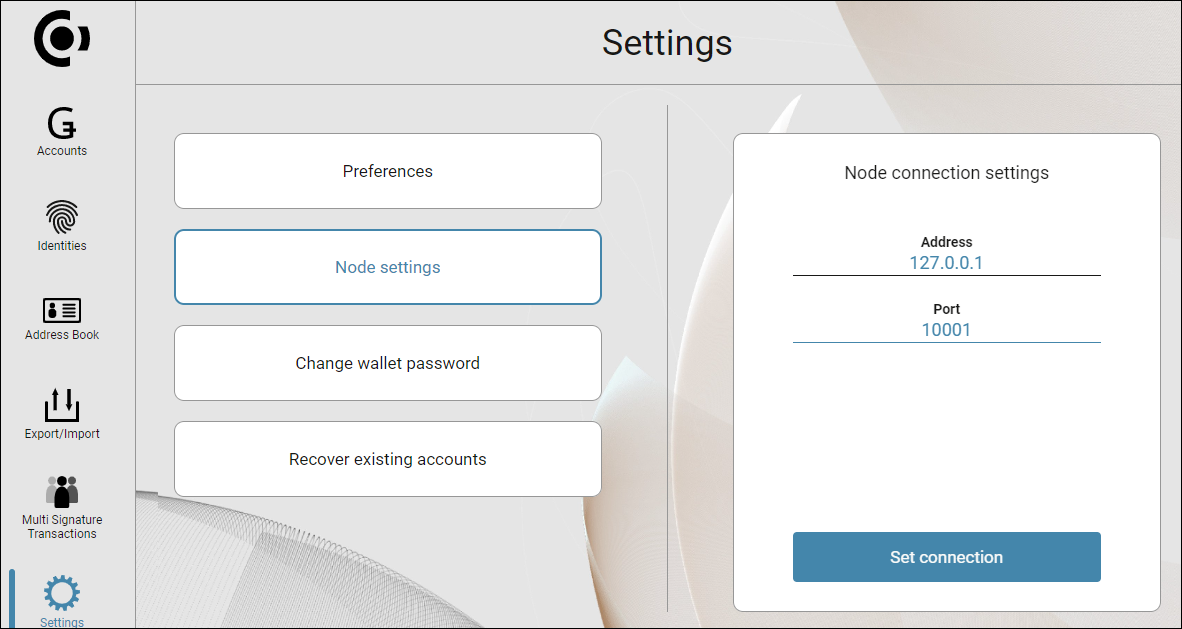
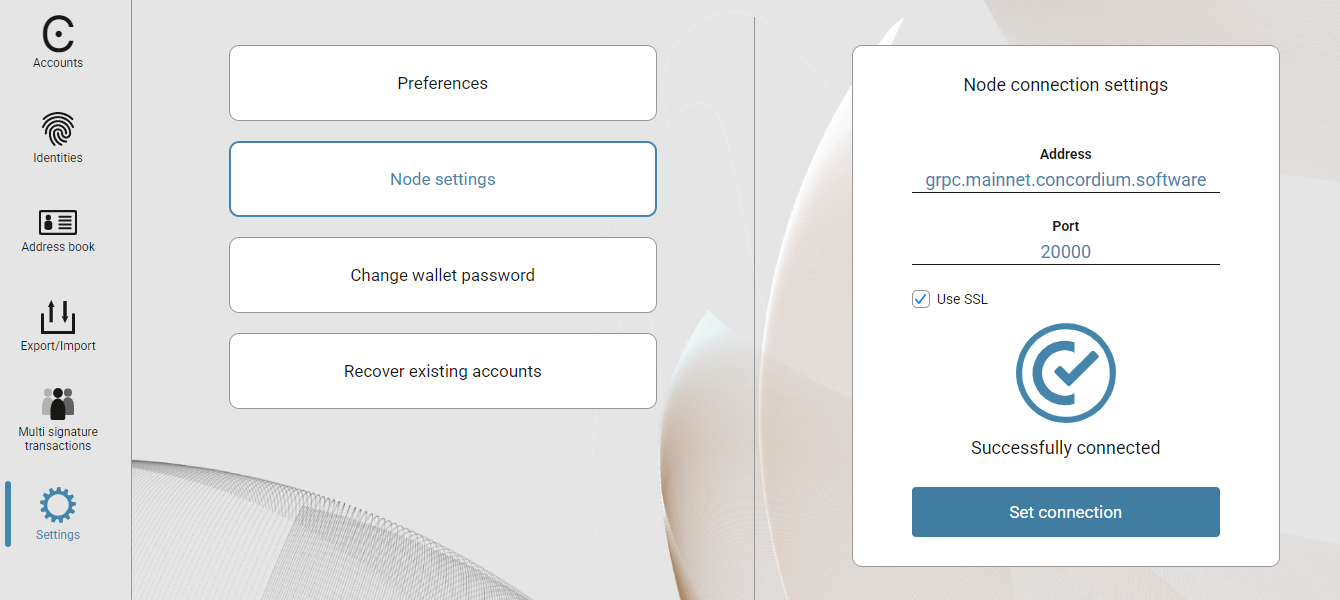
Updated validation guides, added checking node sync status and a little polishing of the desktop wallet

diff --git a/source/mainnet/docs/guides/overview-desktop.rst b/source/mainnet/docs/guides/overview-desktop.rst
@@ -22,7 +22,7 @@ Before you start, make sure you’ve completed the following steps:
 
 .. dropdown:: Step 1: Set up the node
 
-    The Desktop Wallet must be connected to a running **trusted** node on the Concordium blockchain. The node enables the Desktop Wallet to interact with the Concordium blockchain to receive updates and submit transactions. A default ``grpc.mainnet.concordium.software`` is provided. But you can run a node yourself using :ref:`Windows<run-node-windows>`, :ref:`macOS <run-node-macos>`, and :ref:`with Docker <run-a-node>` or :ref:`a Debian package <run-node-ubuntu>` on Linux. You can also have a third-party provider run a node for you.
+    The Desktop Wallet must be connected to a running **trusted** node on the Concordium blockchain. The node enables the Desktop Wallet to interact with the Concordium blockchain to receive updates and submit transactions. A default ``grpc.mainnet.concordium.software`` is provided. Optionally, you can run a node yourself using :ref:`Windows<run-node-windows>`, :ref:`macOS <run-node-macos>`, :ref:`Docker <run-a-node>` or :ref:`a Debian package <run-node-ubuntu>` on Linux. You can also have a third-party provider run a node for you.
 
 .. dropdown:: Step 2: Install the Desktop Wallet
 
@@ -30,14 +30,17 @@ Before you start, make sure you’ve completed the following steps:
 
     #. Open the Desktop Wallet and create a password that contains at least 6 characters. Keep the password safe. You’ll need it to sign into the Desktop Wallet again.
 
-    #. If this is the first time you're opening the Desktop Wallet, you're asked to connect to a node. If you don't see this message, go to **Settings**, and then select **Node settings**. By default, ``grpc.mainnet.concordium.software`` is inserted, but you can change this to any other node that you prefer or the node provided by your third-party provider. Enter the **Address** and **Port** of the node you’re running. The address is the network address of the node.
+    #. If this is the first time you're opening the Desktop Wallet, you're asked to connect to a node. If you don't see this message, go to **Settings**, and then select **Node settings**. By default, ``grpc.mainnet.concordium.software`` with port ``20000`` is inserted. Optionally, you can change this to any other node that you prefer or the node provided by your third-party provider. Enter the **Address** and **Port** of the node you’re running. The address is the network address of the node.
 
-    - If you're running the mainnet version of the Desktop Wallet, you must connect to a mainnet node. In the **Address field**, enter *127.0.0.1*, and in the **Port field** enter *20000*.
+        - If you're running the mainnet version of the Desktop Wallet, you must connect to a mainnet node. In the **Address field**, enter *127.0.0.1*, and in the **Port field** enter *20000*.
 
-    - If you're running the testnet version of the Desktop Wallet, you must connect to a testnet node. In the **Address** field, enter *127.0.0.1*, and in the **Port field** enter *20001*.
+        - If you're running the testnet version of the Desktop Wallet, you must connect to a testnet node. In the **Address** field, enter *127.0.0.1*, and in the **Port field** enter *20001*.
 
-        .. image:: ../../docs/network/nodes/images/Node-setup-win-9.png
-            :width: 60%
+            .. image:: ../../docs/network/nodes/images/Node-setup-win-9.png
+                :width: 60%
+
+        .. Note::
+            The “Use SSL” checkbox should be enabled when connecting to a node running with TLS mode enabled. If you are connecting to your own node with TLS mode disabled, you should uncheck this box.
 
     #. Select **Set connection**. If the connection is working properly, there’s a message saying *Successfully connected*.
 
@@ -53,9 +56,11 @@ Before you start, make sure you’ve completed the following steps:
 
     #. The LEDGER says **Allow Ledger Manager**. Press both buttons simultaneously to allow the manager on your LEDGER.
 
-    #. Press the right button to navigate to **Install app**, and then press both buttons.
-
     #. Search for **Concordium Ledger App** in the App catalog in Ledger Live, and then select **Install**.
+
+    #. If the connection to the node is successfully established and the Concordium App is installed on your Ledger device and launched, you will see the connection status with two green check marks in the lower left corner when you launch Desktop Wallet:
+
+        .. image:: ../../docs/network/nodes/images/DW-successful-connection.png
 
     .. NOTE::
 

diff --git a/source/mainnet/docs/network/guides/validation-with-wallets.rst b/source/mainnet/docs/network/guides/validation-with-wallets.rst
@@ -19,7 +19,7 @@ To become a validator in the Concordium network, you need to run a node, generat
 
 .. Note::
 
-   Before adding a validator, you need to make sure your node is running and fully synchronized with the chain. Otherwise, if you add a validator before launching a node, your validator may be automatically suspended due to missing block production. To familiarize yourself with the process of suspending validators, check out this article: :ref:`Suspend or unsuspend validators <suspend-unsuspend-validator>`.
+   Before generating validator keys, you need to make sure your node is running and fully synchronized with the chain. Otherwise, if you generated validator keys before launching a node, your validator may be automatically suspended due to missing block production. To familiarize yourself with the process of suspending validators, check out this article: :ref:`Suspend or unsuspend validators <suspend-unsuspend-validator>`.
 
 Validation with |bw| and |cryptox|
 ----------------------------------
@@ -28,7 +28,7 @@ This overview describes the recommended scenario for running a node and becoming
 
 .. dropdown:: Step 1: Set up the node
 
-   For validation you must be running a node on the Concordium blockchain. Synchronization of the node takes some time, depending on the performance of your hardware and the length of the chain. Before generating keys, you need to make sure that your node is fully synchronized. You can run a node :ref:`on Windows<run-node-windows>`, :ref:`on macOS<run-node-macos>`, :ref:`on Ubuntu<run-node-ubuntu>` or using :ref:`Docker<run-a-node>`. You can also have a third-party run a node on your behalf.
+   For validation you must be running a node on the Concordium blockchain. Synchronization of the node takes some time, depending on the performance of your hardware and the length of the chain. Before generating validator keys, you need to make sure that your node is fully synchronized. You can run a node :ref:`on Windows<run-node-windows>`, :ref:`on macOS<run-node-macos>`, :ref:`on Ubuntu<run-node-ubuntu>` or using :ref:`Docker<run-a-node>`. You can also have a third-party run a node on your behalf.
 
 .. dropdown:: Step 2: Set up the Wallet
 
@@ -60,7 +60,7 @@ This overview describes the recommended scenario for running a node and becoming
 
 .. dropdown:: Step 1: Set up the node
 
-   The Desktop Wallet must be connected to a running node on the Concordium blockchain. You can run a node :ref:`on Windows<run-node-windows>`, :ref:`on macOS<run-node-macos>`, :ref:`on Ubuntu<run-node-ubuntu>` or using :ref:`Docker<run-a-node>`. You can also choose to have a third-party node runner run a node for you if you do not want to run the node yourself.
+   For validation you must be running a node on the Concordium blockchain. Synchronization of the node takes some time, depending on the performance of your hardware and the length of the chain. Before generating validator keys, you need to make sure that your node is fully synchronized. You can run a node :ref:`on Windows<run-node-windows>`, :ref:`on macOS<run-node-macos>`, :ref:`on Ubuntu<run-node-ubuntu>` or using :ref:`Docker<run-a-node>`. You can also have a third-party run a node on your behalf.
 
 .. dropdown:: Step 2: Set up the LEDGER device
 
@@ -68,7 +68,7 @@ This overview describes the recommended scenario for running a node and becoming
 
 .. dropdown:: Step 3: Set up the Concordium Desktop Wallet
 
-   You'll need to install and set up the Desktop Wallet to create and manage identities and accounts and add a validator. See :ref:`Set up the Desktop Wallet<overview-desktop>`.
+   The Desktop Wallet must be connected to a running node on the Concordium blockchain. You'll need to install and set up the Desktop Wallet to create and manage identities and accounts and add a validator. See :ref:`Set up the Desktop Wallet<overview-desktop>`.
 
 .. dropdown:: Step 4: Set up an identity and an initial account
 
@@ -94,7 +94,6 @@ For information about configuring and managing validation in ``Concordium-client
 Next steps
 ==========
 
-- Read the information about :ref:`validation management<baker-pool>`.
 - If you are interested in a staking pool, read the :ref:`Delegation FAQ<delegation-faq-old>`.
 - You can then :ref:`update validator settings <update-baker-mw>` as needed to manage your validator.
 

diff --git a/source/mainnet/tools/transactions.rst b/source/mainnet/tools/transactions.rst
@@ -429,64 +429,64 @@ The output is:
 
 .. code-block:: console
 
-# Parameters related to staking pools:
-  + minimum equity capital: 500000.000000 CCD
-  + maximum fraction of total stake a pool is allowed to hold: 5.0e-2
-  + maximum factor a pool may stake relative to the validator's stake: 6 % 1
-  + pool owner cooldown duration: 7d
-  + allowed range for finalization commission: [1.0, 1.0]
-  + allowed range for block reward commission: [0.0, 1.0]
-  + allowed range for transaction commission: [0.0, 1.0]
+  # Parameters related to staking pools:
+    + minimum equity capital: 500000.000000 CCD
+    + maximum fraction of total stake a pool is allowed to hold: 5.0e-2
+    + maximum factor a pool may stake relative to the validator's stake: 6 % 1
+    + pool owner cooldown duration: 7d
+    + allowed range for finalization commission: [1.0, 1.0]
+    + allowed range for block reward commission: [0.0, 1.0]
+    + allowed range for transaction commission: [0.0, 1.0]
 
-# Passive delegation parameters:
-  + finalization commission: 1.0
-  + block reward commission: 0.25
-  + transaction commission: 0.25
+  # Passive delegation parameters:
+    + finalization commission: 1.0
+    + block reward commission: 0.25
+    + transaction commission: 0.25
 
-# Parameters related to delegators:
-  + delegator cooldown duration: 7d
+  # Parameters related to delegators:
+    + delegator cooldown duration: 7d
 
-# Exchange rate parameters:
-  + EUR per CCD rate (approx): 0.0039
-  + EUR per Energy rate: 1 / 50000 (approx 2.0e-5)
-  + microCCD per EUR rate: 9309295728319683584 / 36703199911 (approx 2.5363716926299047e8)
+  # Exchange rate parameters:
+    + EUR per CCD rate (approx): 0.0039
+    + EUR per Energy rate: 1 / 50000 (approx 2.0e-5)
+    + microCCD per EUR rate: 9309295728319683584 / 36703199911 (approx 2.5363716926299047e8)
 
-# Parameters that affect rewards distribution:
-  + mint amount per reward period: 107459782e-12
-  + mint distribution:
-     * block reward: 0.9
-     * finalization reward: 0.0
-  + transaction fee distribution:
-     * validator: 0.45
-     * GAS account: 0.45
-  + GAS account distribution:
-     * producing a block: 0.25
-     * adding a finalization proof: N/A
-     * adding a credential deployment: 2.0e-2
-     * adding a chain update: 5.0e-3
+  # Parameters that affect rewards distribution:
+    + mint amount per reward period: 107459782e-12
+    + mint distribution:
+      * block reward: 0.9
+      * finalization reward: 0.0
+    + transaction fee distribution:
+      * validator: 0.45
+      * GAS account: 0.45
+    + GAS account distribution:
+      * producing a block: 0.25
+      * adding a finalization proof: N/A
+      * adding a credential deployment: 2.0e-2
+      * adding a chain update: 5.0e-3
 
-# Time parameters:
-  + reward period length: 24 epochs
+  # Time parameters:
+    + reward period length: 24 epochs
 
-# Consensus parameters:
-  + Timeout parameters:
-     * base timeout: 10000 ms.
-     * timeout increase: 6 / 5 (approx 1.2)
-     * timeout decrease: 3 / 4 (approx 0.75)
-  + minimum time between blocks: 2000 ms.
-  + block energy limit: 3000000
+  # Consensus parameters:
+    + Timeout parameters:
+      * base timeout: 10000 ms.
+      * timeout increase: 6 / 5 (approx 1.2)
+      * timeout decrease: 3 / 4 (approx 0.75)
+    + minimum time between blocks: 2000 ms.
+    + block energy limit: 3000000
 
-# Finalization committee parameters:
-  + minimum finalizers: 40
-  + maximum finalizers: 1000
-  + finalizer relative stake threshold: 5.0e-5
+  # Finalization committee parameters:
+    + minimum finalizers: 40
+    + maximum finalizers: 1000
+    + finalizer relative stake threshold: 5.0e-5
 
-# Validator score parameters:
-  + maximum missed rounds: 10
+  # Validator score parameters:
+    + maximum missed rounds: 10
 
-# Other parameters:
-  + foundation account index: 13
-  + maximum credential deployments per block: 10
+  # Other parameters:
+    + foundation account index: 13
+    + maximum credential deployments per block: 10
 
 .. list-table::
    :widths: 25 25 50

diff --git a/source/mainnet/docs/network/nodes/node-requirements.rst b/source/mainnet/docs/network/nodes/node-requirements.rst
@@ -56,6 +56,62 @@ This feature is enabled by default in all distributions since version 6.1, and o
 
 The speed of synchronization largely depends on the performance of your storage (NVMe drives are highly recommended).
 
+Checking the Node synchronization status
+----------------------------------------
+
+.. dropdown:: Using CCDScan
+
+   To verify whether a Concordium node is synchronized with the network, compare
+   the node’s finalized block height with the latest finalized block height
+   reported by CCDScan.
+
+   #. Open the **Blocks** page on `CCDScan <https://ccdscan.io/blocks>`_
+
+   #. Locate the **Height** column, which represents the height of finalized
+      blocks (the sequential position of each finalized block in the blockchain)
+      for the selected network. The highest value displayed corresponds to the latest finalized block height.
+
+   #. Note the highest **Height** value.
+
+   #. Open your node’s page on CCDScan and locate the parameter **Last Finalized Block Height**
+
+   #. Compare the node’s **Last Finalized Block Height** with the block height
+      obtained from the CCDScan **Blocks** page.
+
+   Interpretation:
+
+   - If the values are equal, the node is synchronized with the network.
+   - If the node’s **Last Finalized Block Height** is lower than the value shown on CCDScan, the node is still synchronizing.
+
+   .. note::
+
+      A difference of 1–2 blocks is generally not considered significant and may
+      occur due to normal network latency, block propagation delays, or delays in
+      updating the node’s local state. Since the block time on Concordium is
+      approximately 2 seconds, such a difference corresponds to only a few
+      seconds.
+
+.. dropdown:: Using Concordium-client
+
+   You can also verify the synchronization status of a node using the
+   ``concordium-client`` command-line tool.
+
+   Run the following command:
+
+   .. code-block:: bash
+
+      concordium-client raw GetPeerData
+
+   The command returns information about the node’s peers and their current
+   synchronization status.
+
+   Interpretation:
+
+   - If the output lists multiple peers and all of them have the status
+     ``Up to date``, the node is synchronized with the network.
+   - If one or more peers are not marked as ``Up to date``, the node may still
+     be in the process of synchronizing.
+
 .. toctree::
    :maxdepth: 1
    :hidden:
